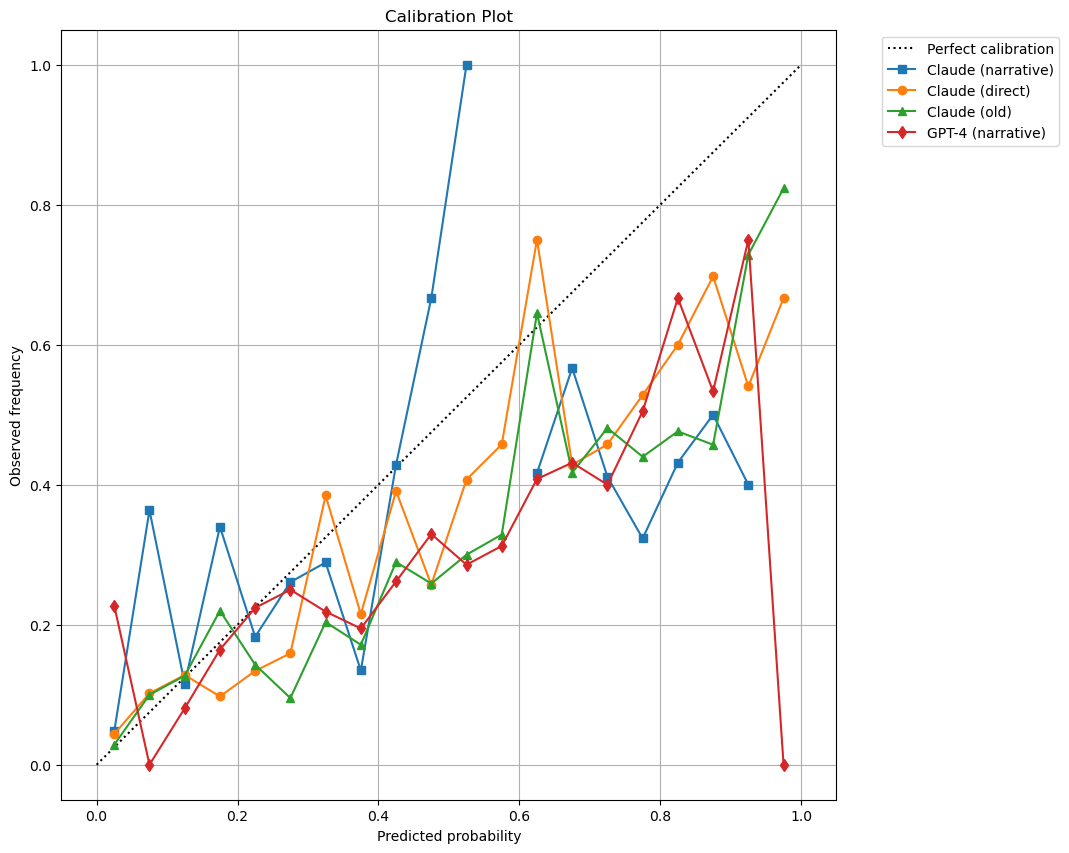
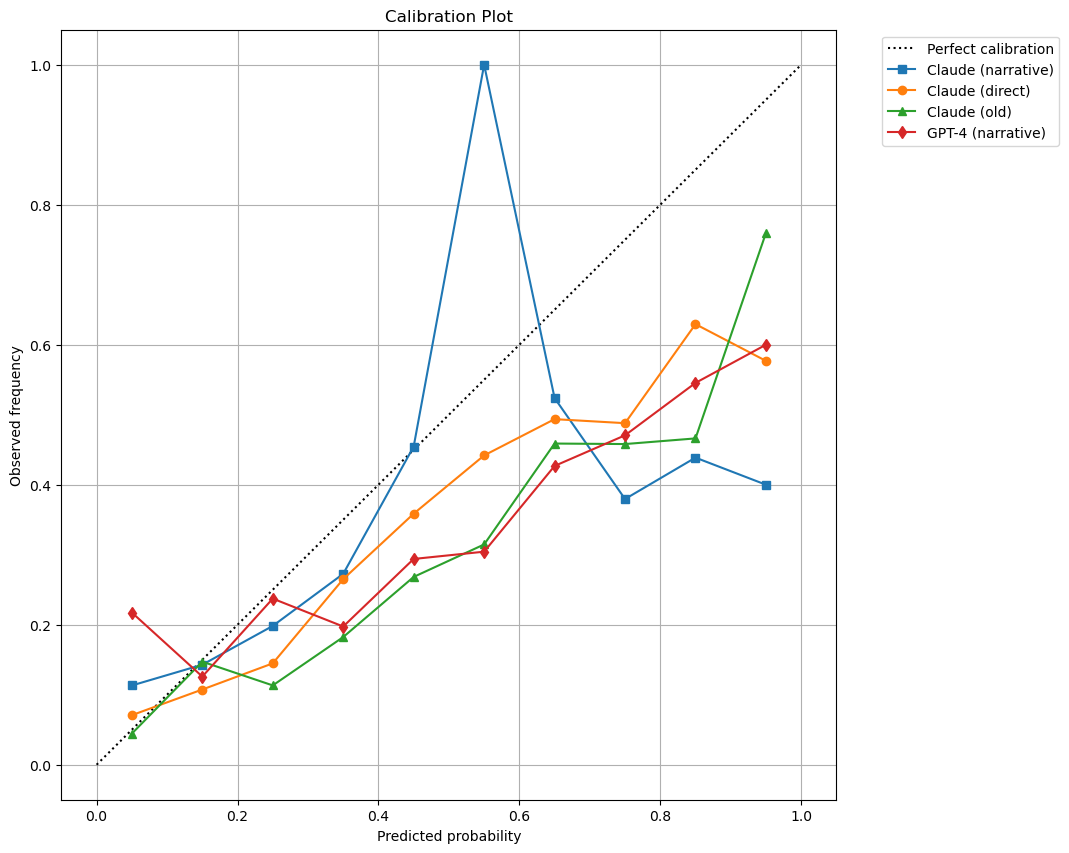
reduce calibration plot granularity
buckets of 10

diff --git a/calibration_plot.py b/calibration_plot.py
@@ -11,7 +11,7 @@ def create_calibration_plot():
     resolutions_df = pd.read_csv('aibq3_resolutions.csv')
     
     # Create bins for predictions (5% wide)
-    bins = np.arange(0, 105, 5) / 100  # Convert to probabilities
+    bins = np.arange(0, 105, 10) / 100  # Convert to probabilities
     bin_centers = (bins[:-1] + bins[1:]) / 2
     
     plt.figure(figsize=(10, 10))
